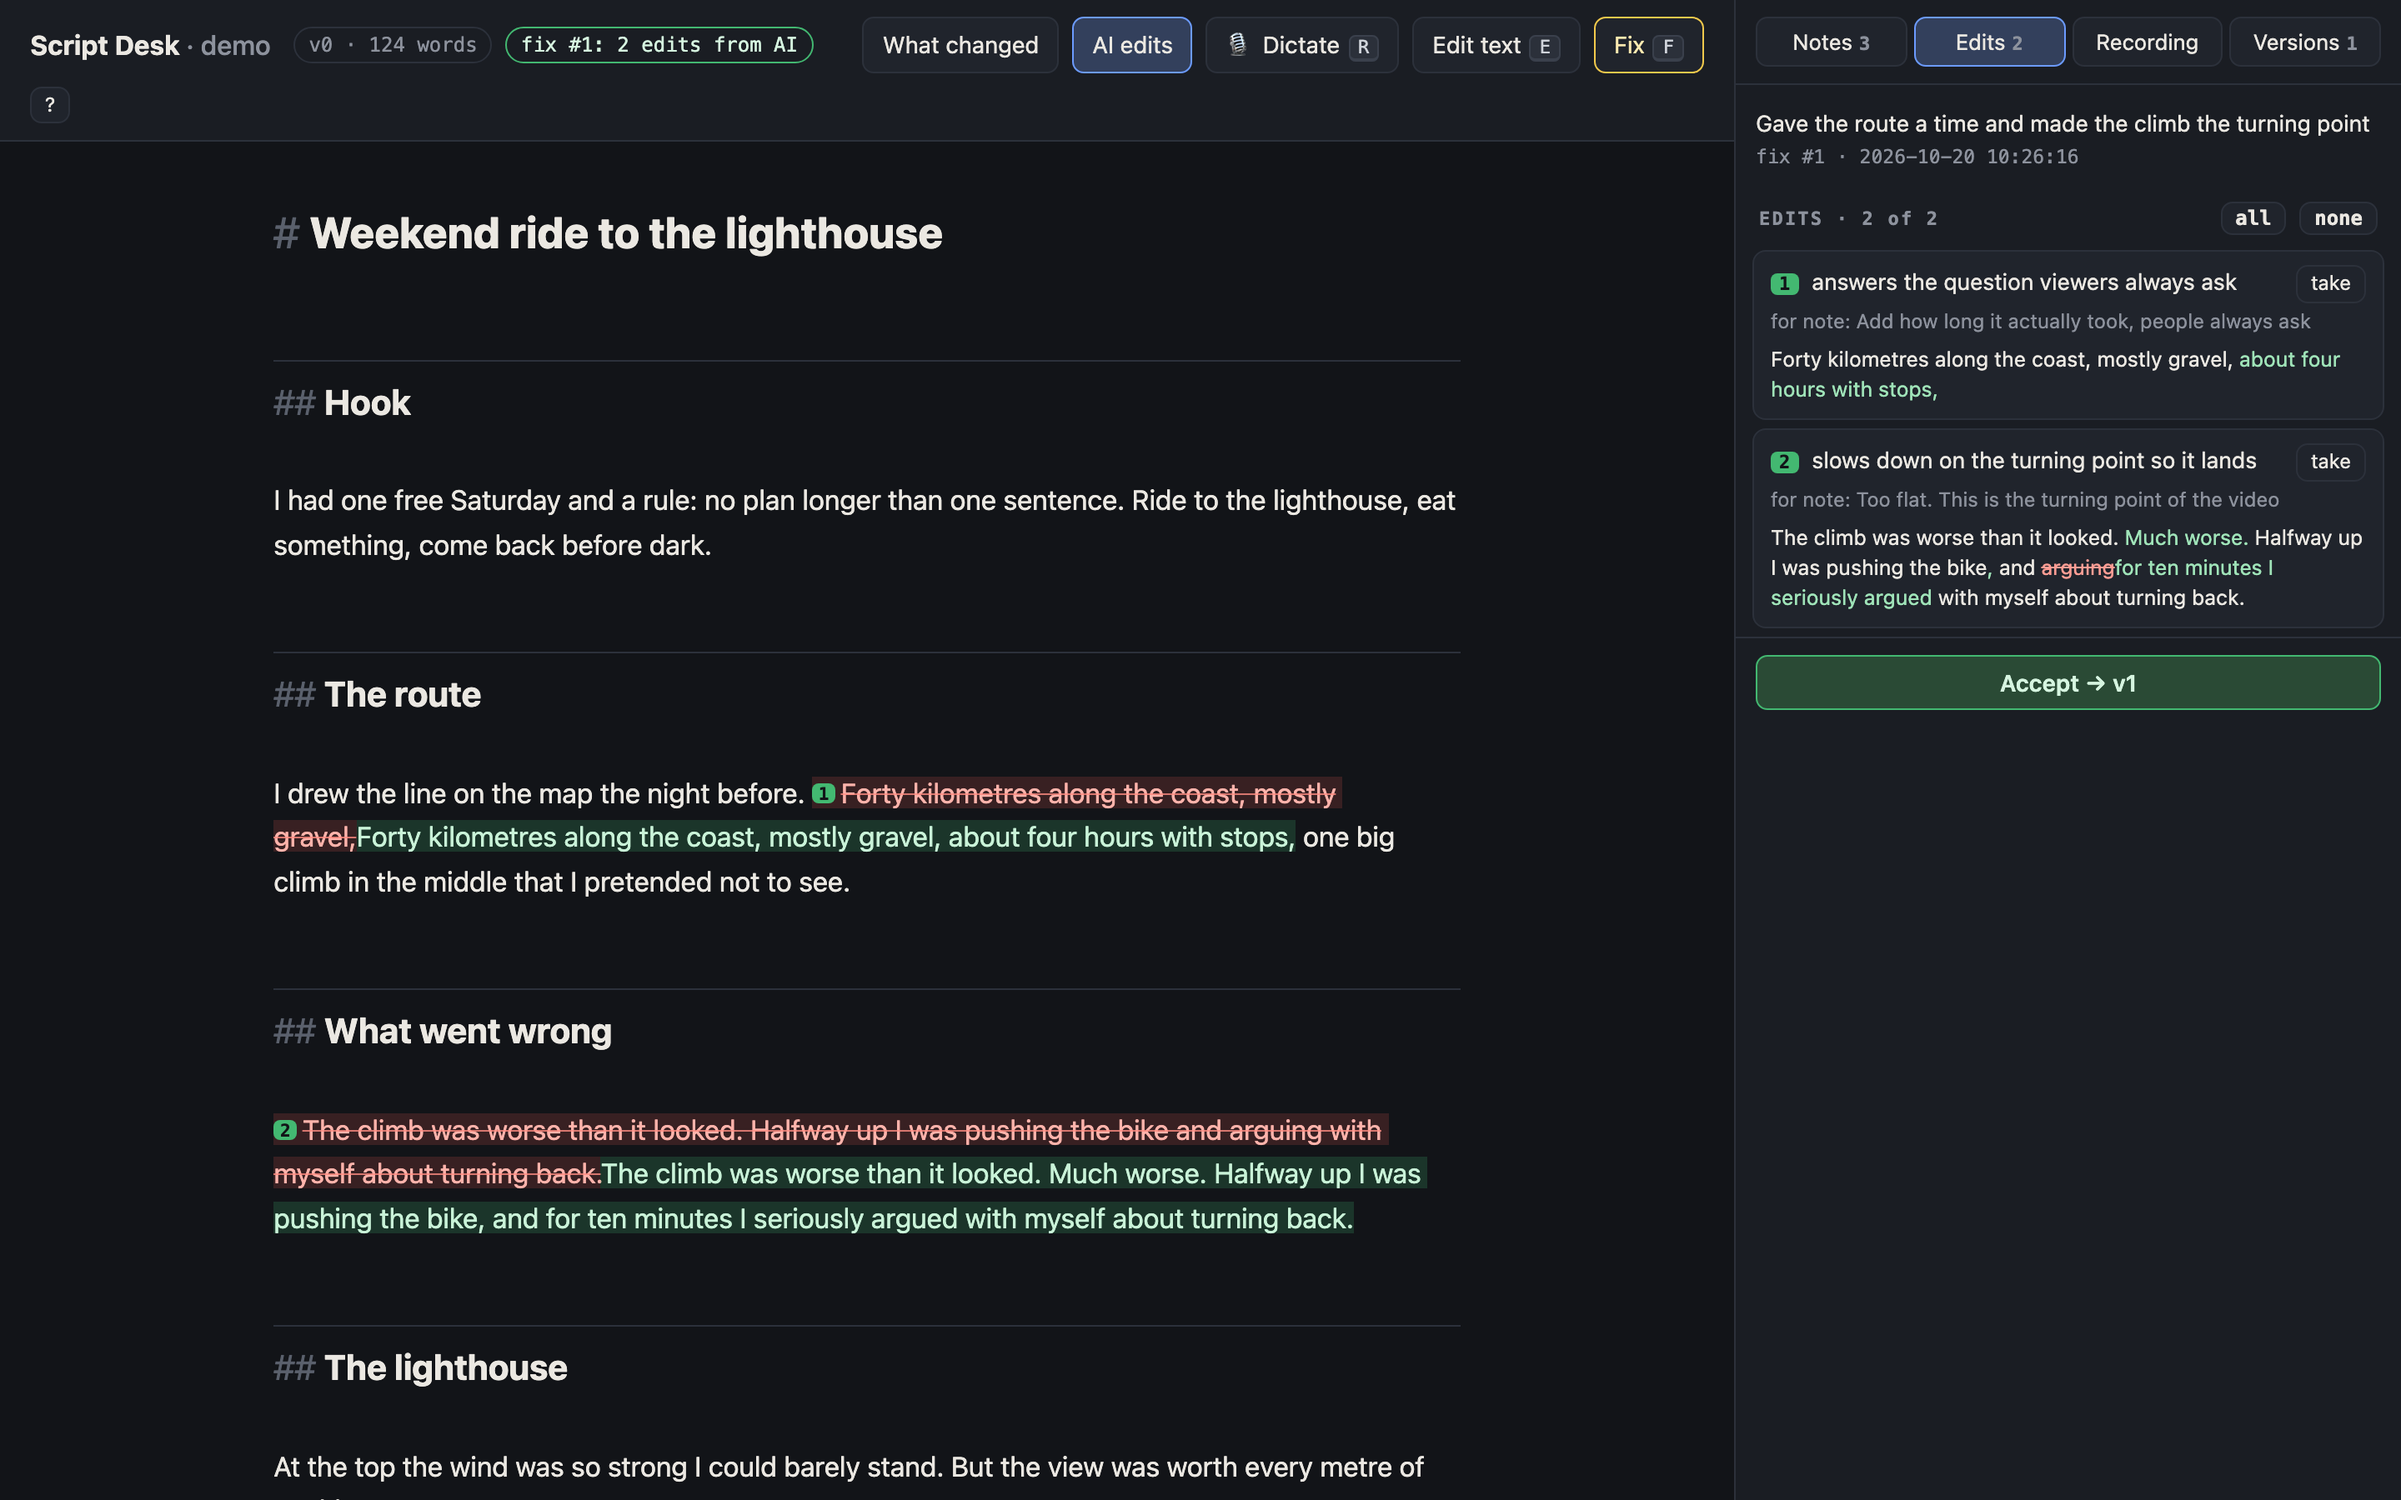
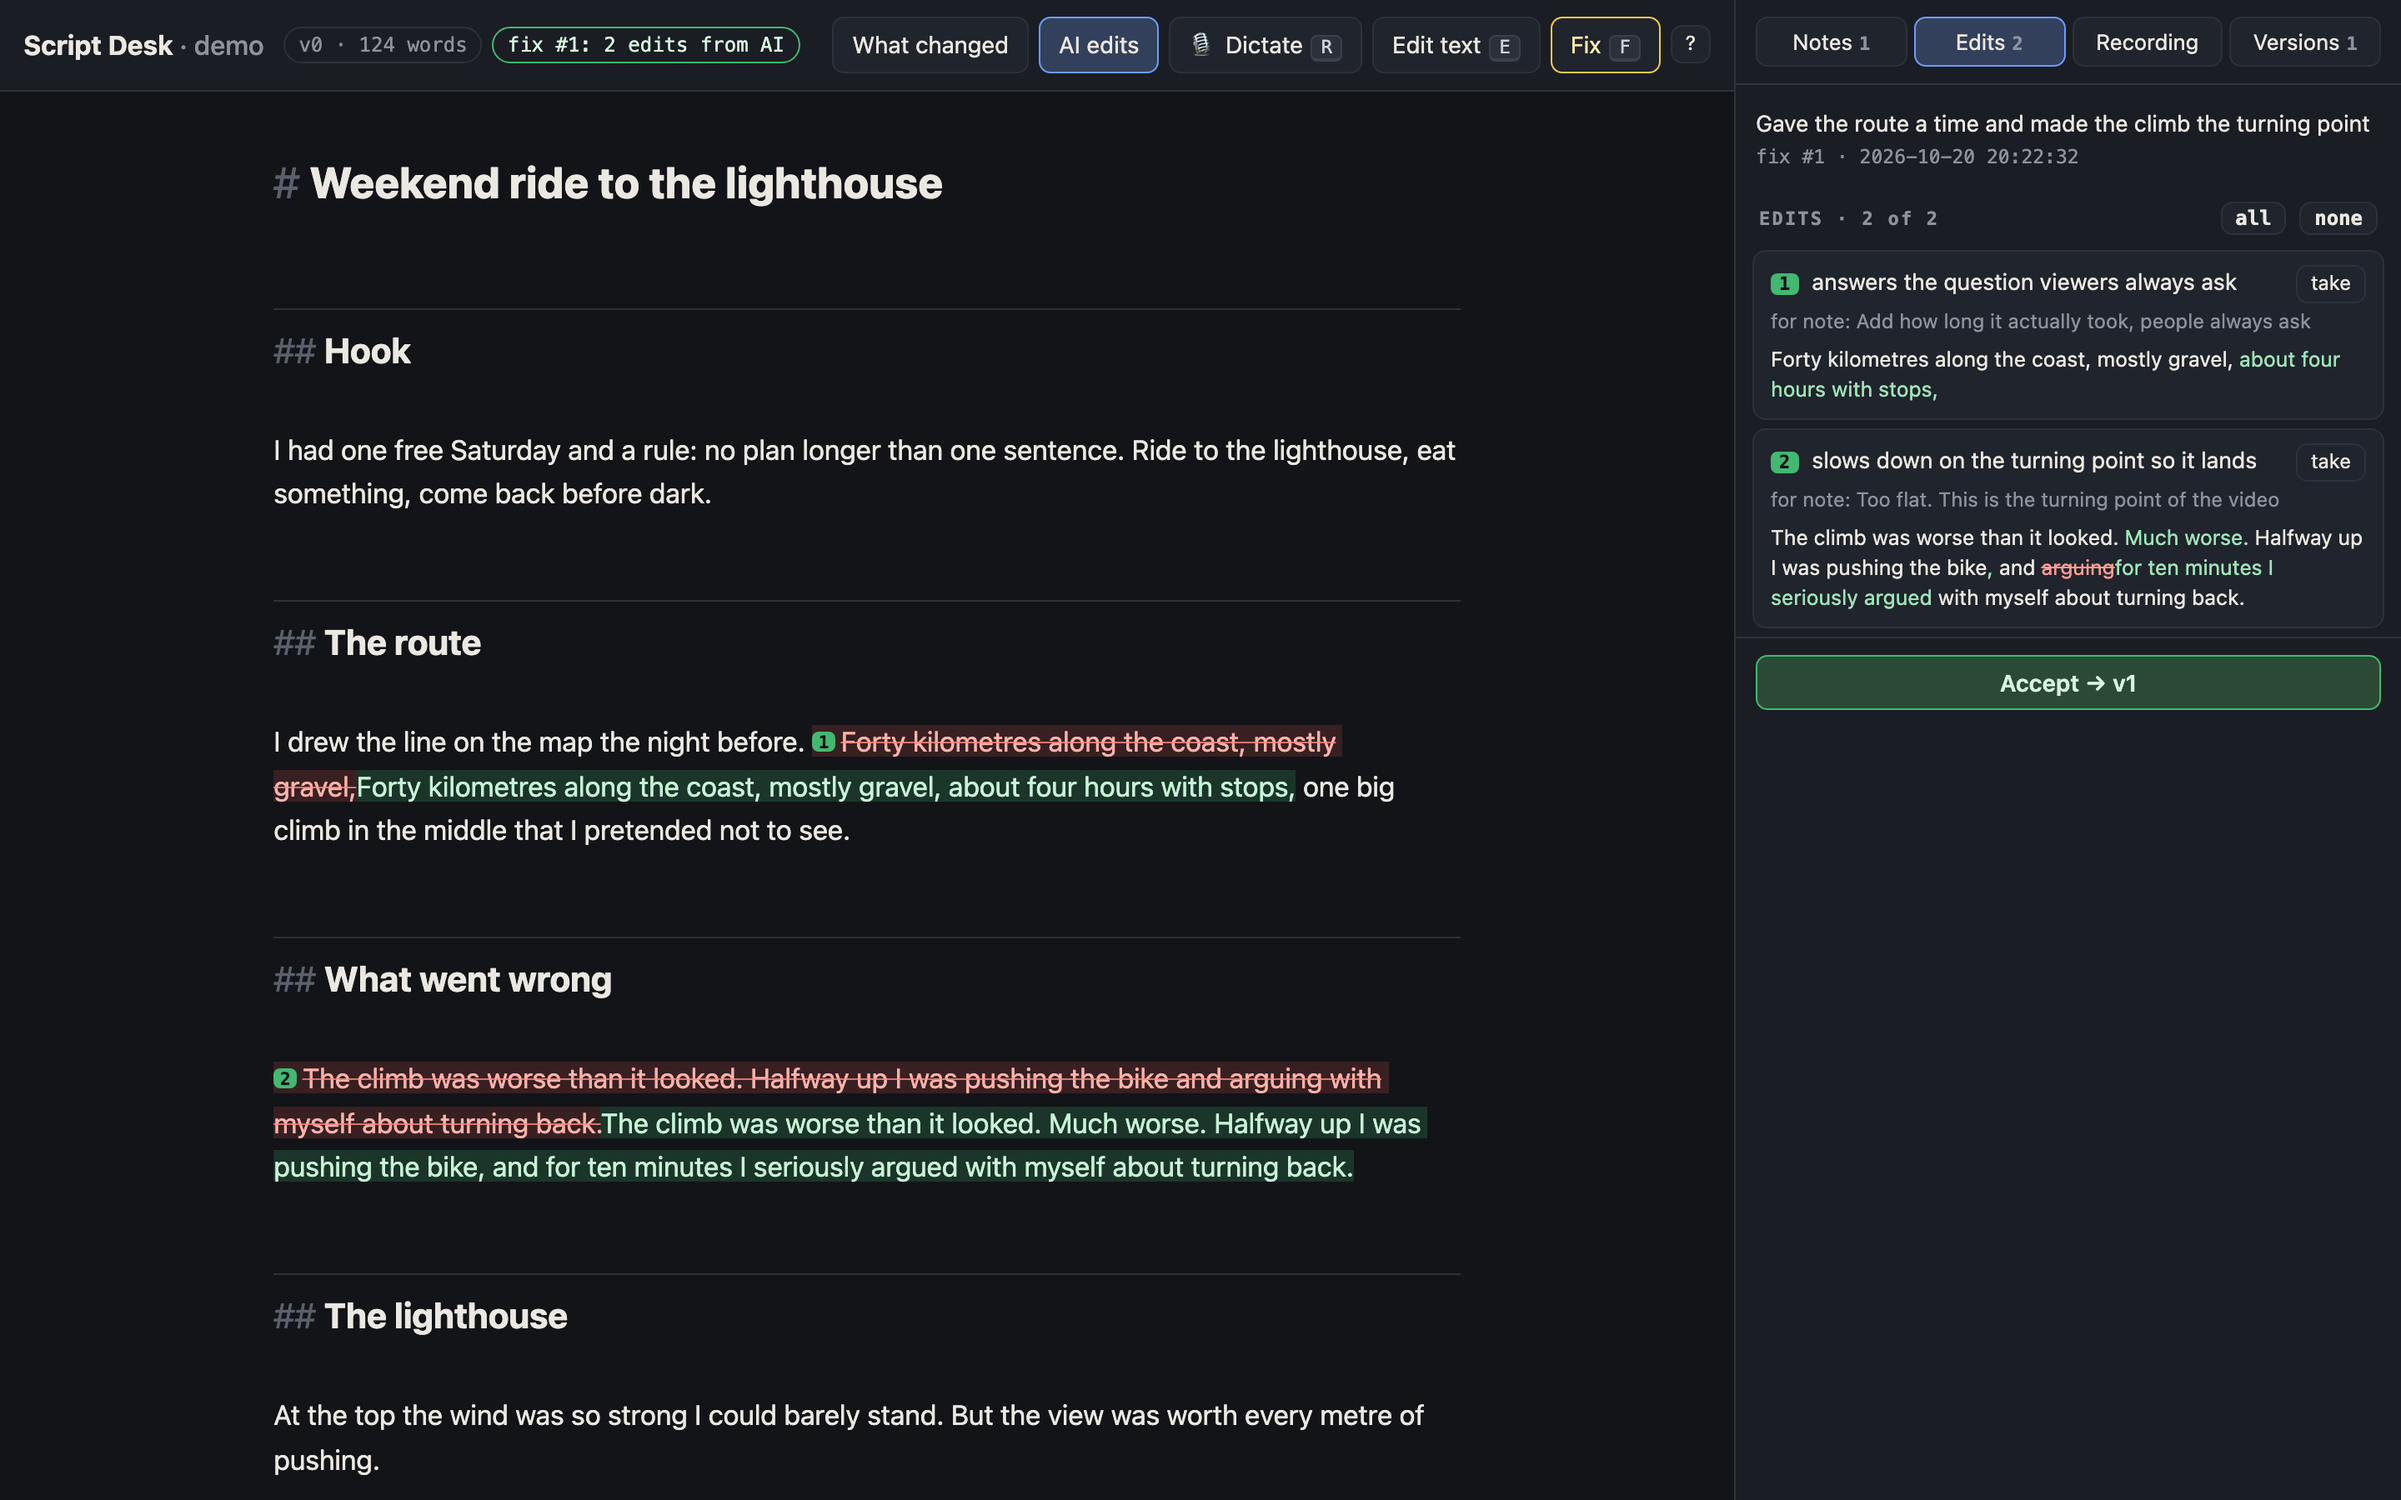
docs: add animated Script Desk demo and social preview
Also keeps the Script Desk top bar on one line at laptop widths.

diff --git a/skills/script-desk/scripts/index.html b/skills/script-desk/scripts/index.html
@@ -29,7 +29,8 @@
 
   /* ── main column ── */
   main { display: flex; flex-direction: column; min-width: 0; height: 100vh; }
-  #bar { display: flex; align-items: center; gap: 8px; padding: 10px 18px; border-bottom: 1px solid var(--line); background: var(--panel); flex-wrap: wrap; }
+  #bar { display: flex; align-items: center; gap: 6px; padding: 10px 14px; border-bottom: 1px solid var(--line); background: var(--panel); flex-wrap: wrap; }
+  #bar button, #bar .chip, #bar h1 { white-space: nowrap; }
   #bar h1 { font-size: 16px; font-weight: 700; margin-right: 6px; }
   #bar h1 #pname { color: var(--dim); font-weight: 500; }
   #bar .sp { flex: 1; }

diff --git a/README.md b/README.md
@@ -10,6 +10,8 @@ Agent skills and a plugin for **Claude Code** and **OpenAI Codex** (and any agen
 ![Codex plugin](https://img.shields.io/badge/Codex-plugin-10a37f)
 ![Zero dependencies](https://img.shields.io/badge/python-stdlib%20only-3776ab)
 
+![Script Desk in action: the author's notes, Fix, the agent's edits appear inline, take or skip, Accept → v1](docs/images/script-desk-demo.gif)
+
 | Skill | What it does |
 |---|---|
 | **[Script Desk](skills/script-desk/SKILL.md)** | Leave notes on your script, press **Fix**, and your agent proposes concrete edits. You take or skip each one, and every accepted round becomes a version snapshot. |

diff --git a/CHANGELOG.md b/CHANGELOG.md
@@ -4,6 +4,14 @@ All notable changes to this project are documented here. The format follows [Kee
 
 ## [Unreleased]
 
+### Added
+
+- Animated demo of the Script Desk loop and a social preview image in `docs/images/`.
+
+### Fixed
+
+- Script Desk: the top bar no longer wraps onto a second line at common laptop widths.
+
 ## [0.1.0] - 2026-10-20
 
 ### Added
